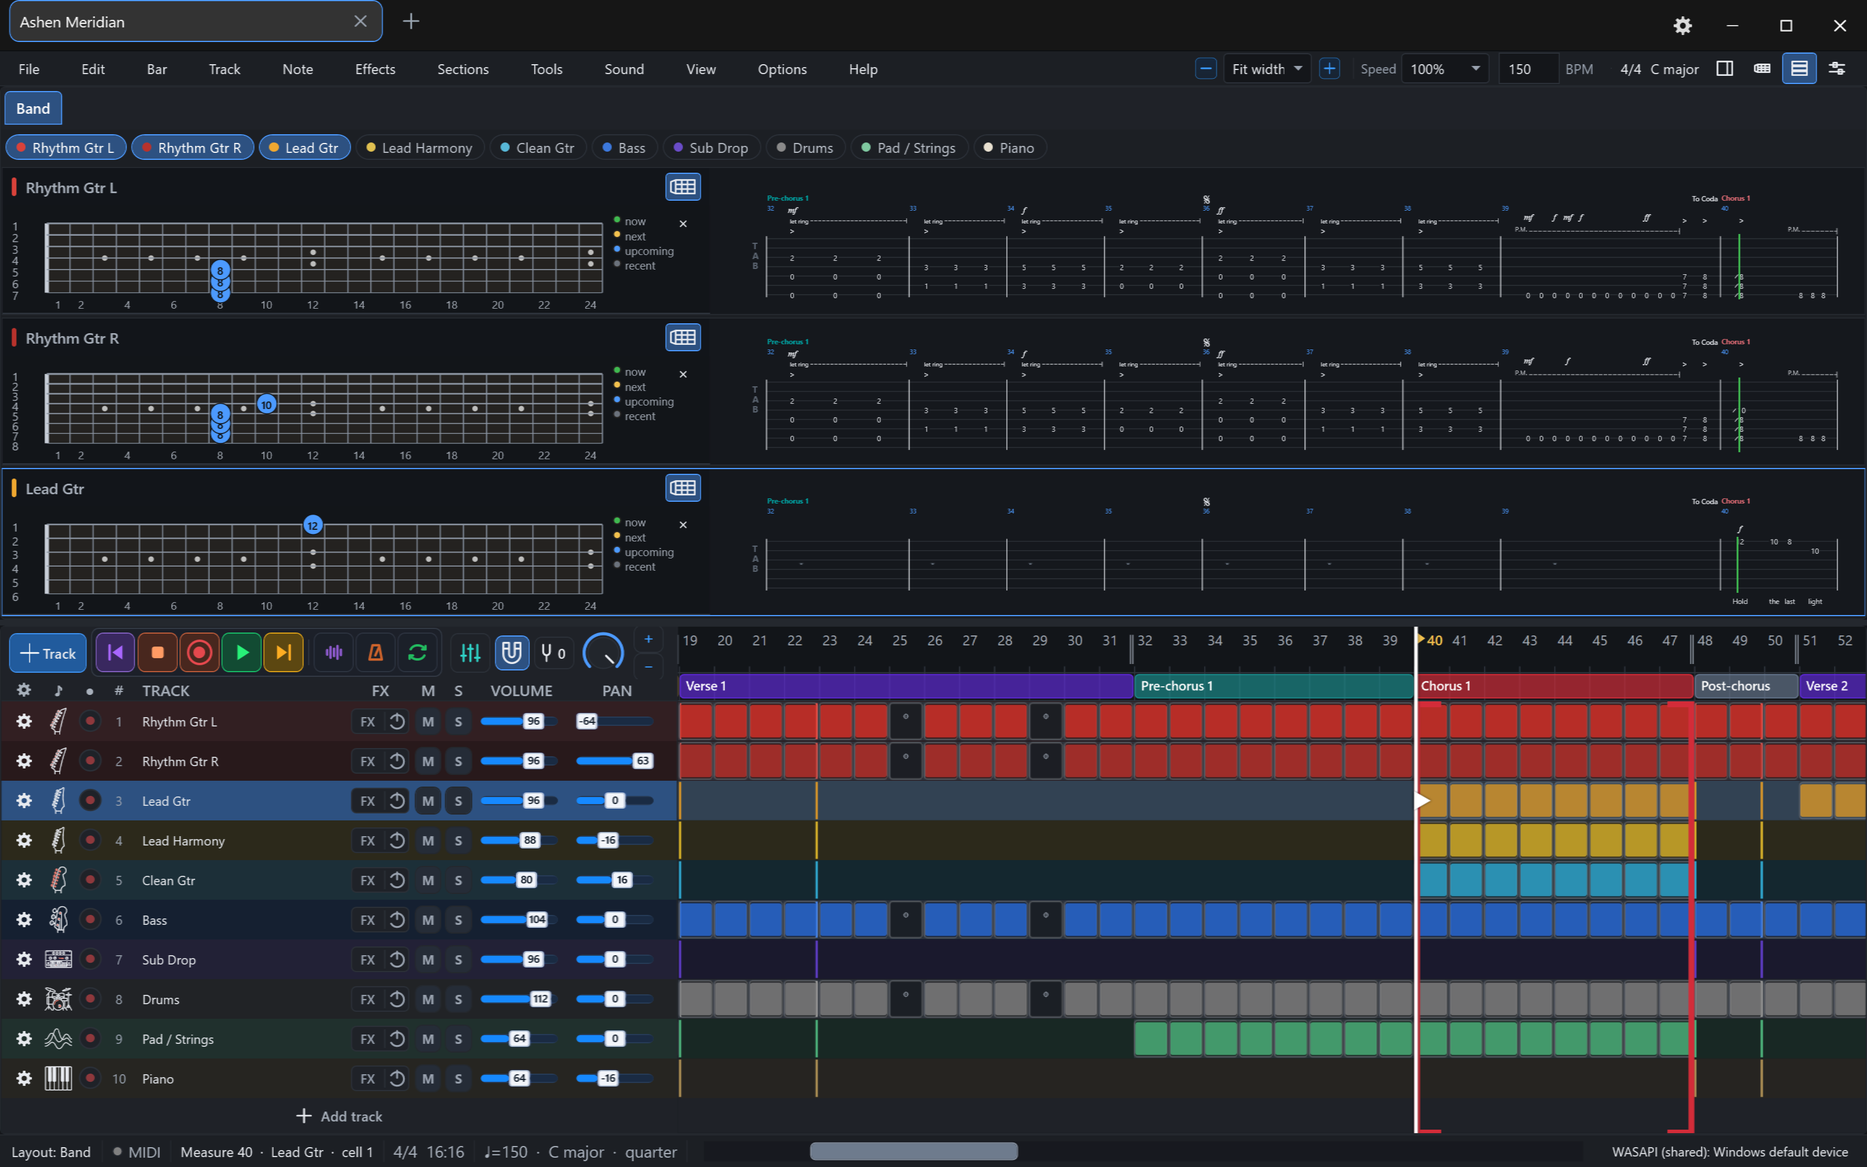
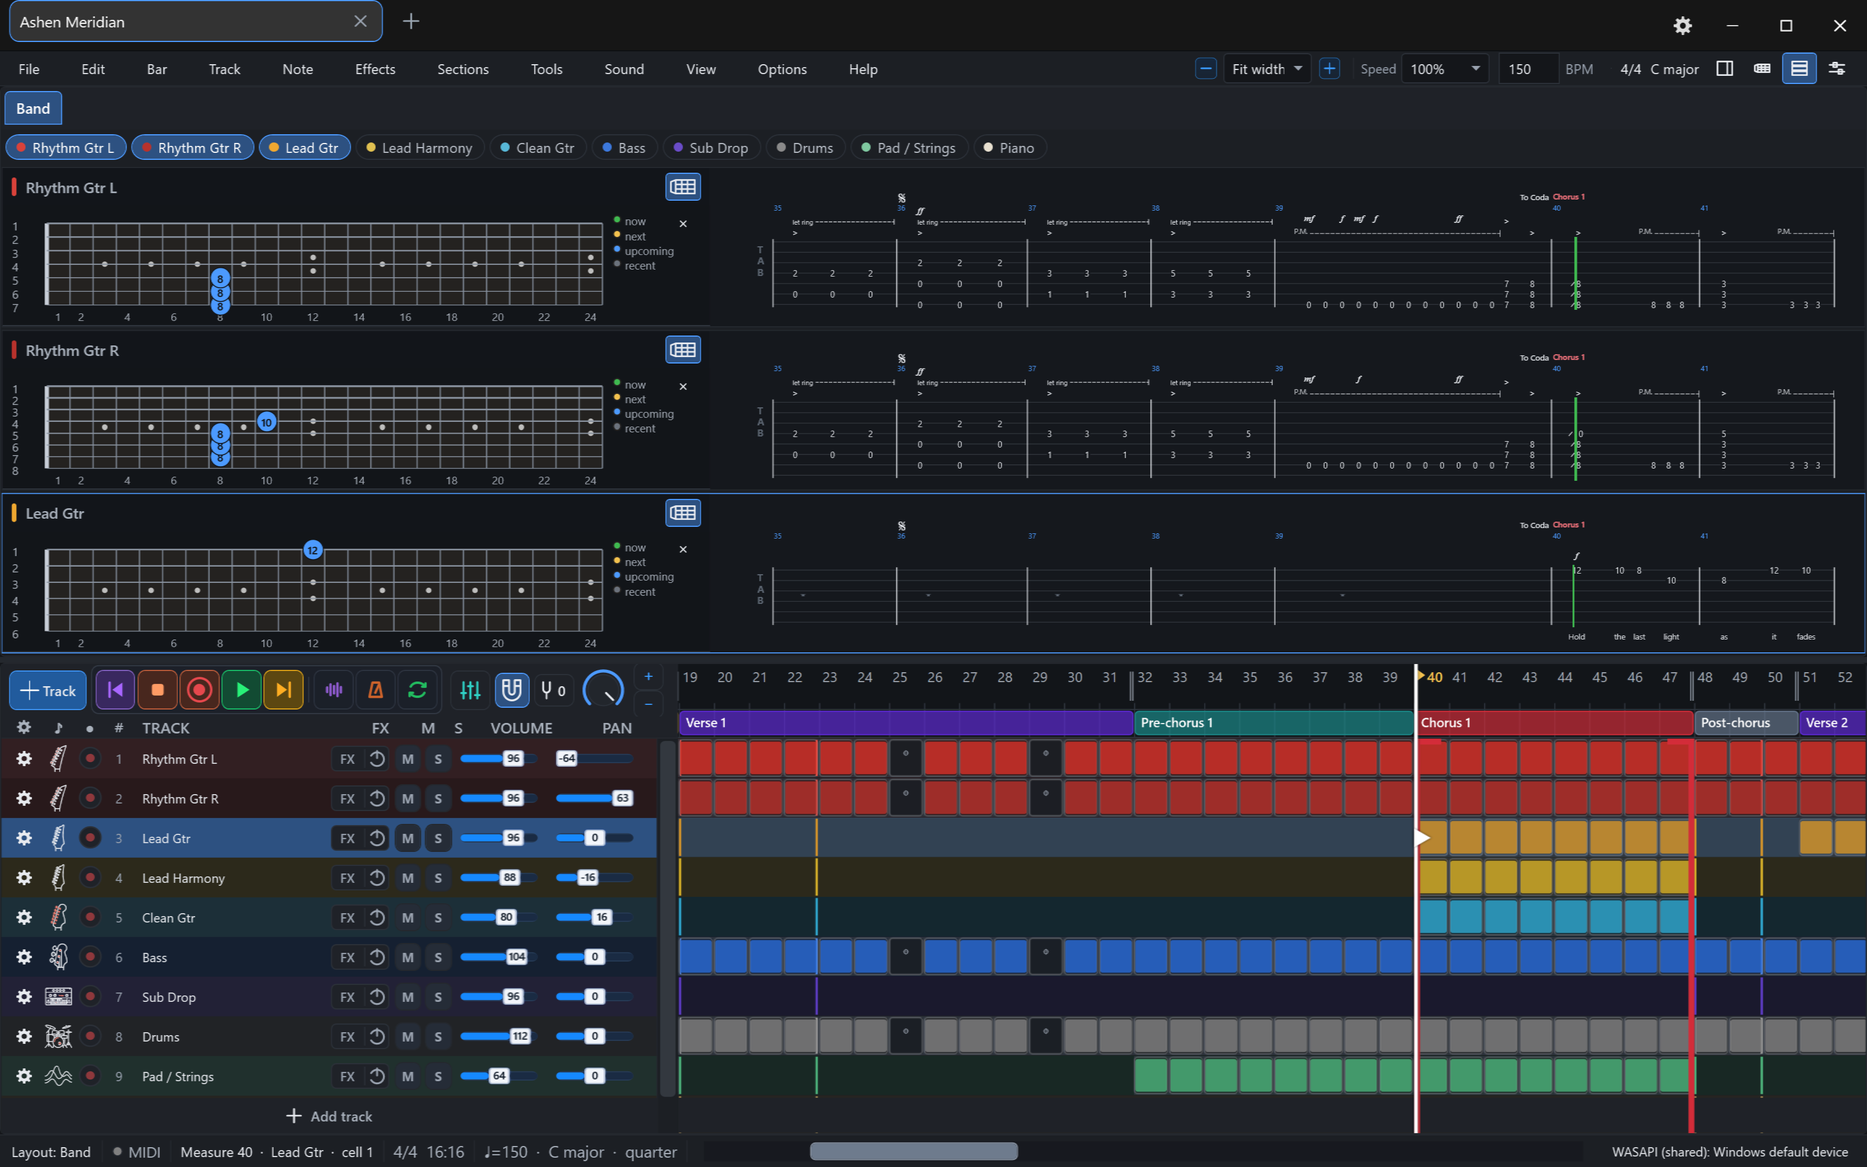
TabForge 0.6.2

diff --git a/tests/full-suite/Views/SelfTestBandLanes.cs b/tests/full-suite/Views/SelfTestBandLanes.cs
@@ -1,4 +1,4 @@
-using TabForge.Models;
+using TabForge.Models;
 using TabForge.Services;
 using TabForge.Views.Band;
 
@@ -138,5 +138,110 @@ public static partial class SelfTest
         var catalog = SettingsCatalog.Build(host.Settings).Select(d => d.Key).ToHashSet();
         Check("band vertical: Preferences has the layout row", catalog.Contains("band.lanelayout"));
         Check("band vertical: the menu has the layout items", TabForge.Views.BandMenus.Build(new TabForge.Views.BandMenuState("Tab", "Full neck", 3, true), _ => "").Any(m => m.Header == "Lane layout" && m.Children?.Count == 2));
+    }
+
+    private static void TestBandRowsSamePage()
+    {
+        var project = BandUnevenSong(120);
+        var host = new FakeBandHost(project);
+        host.Settings.Timeline.Band = new BandSettings { WidthPerRow = true };
+        using var band = new BandViewController(host);
+        BandStage(band, 1000, 900);
+        band.Tick();
+        BandStage(band, 1000, 900);
+        // Rows with different instrument widths leave their lanes different widths.
+        band.State.SetWidth(project.Tracks[2], 380);
+        band.State.SetWidth(project.Tracks[0], 120);
+        band.Tick();
+        BandStage(band, 1000, 900);
+        var lanes = band.View.Rows.Select(r => r.Lane).ToList();
+        Check("band page: the lanes really differ in width", lanes.Select(l => Math.Round(l.ActualWidth)).Distinct().Count() > 1);
+        var bad = "";
+        for (var bar = 0; bar < 120 && bad == ""; bar++)
+        {
+            if (lanes.Select(l => l.SystemOf(bar)).Distinct().Count() > 1) bad = "bar " + bar + " is in systems " + string.Join("/", lanes.Select(l => l.SystemOf(bar)));
+            else if (lanes.Select(l => Math.Round(l.Editor.Zoom, 4)).Distinct().Count() > 1) bad = "zoom " + string.Join("/", lanes.Select(l => l.Editor.Zoom));
+        }
+        Check("band page: every row has the same bars on a page and the same tab scale", bad == "", bad);
+    }
+
+    private static void TestBandRowsSamePageHorizontal()
+    {
+        var project = BandSong(120);
+        foreach (var t in project.Tracks.Take(2)) t.StringTunings = new List<int> { 64, 59, 55, 50, 45, 40, 35 };
+        var host = new FakeBandHost(project);
+        host.Settings.Timeline.Band = new BandSettings { WidthPerRow = true, LaneLayout = BandChoices.Horizontal };
+        host.Settings.Follow.Mode = FollowModes.Jump;
+        using var band = new BandViewController(host);
+        BandStage(band, 2000, 1100);
+        band.Tick();
+        BandStage(band, 2000, 1100);
+        band.State.SetWidth(project.Tracks[0], 300);
+        band.State.SetWidth(project.Tracks[1], 520);
+        band.State.SetWidth(project.Tracks[2], 400);
+        band.Tick();
+        BandStage(band, 2000, 1100);
+        var lanes = band.View.Rows.Select(r => r.Lane).ToList();
+        Check("band page horizontal: the lanes differ in width", lanes.Select(l => Math.Round(l.ActualWidth)).Distinct().Count() > 1);
+        var bad = "";
+        foreach (var bar in new[] { 5, 40, 89, 90, 91, 92, 93 })
+        {
+            band.Apply(bar, 0.0, bar * 2000.0, true, false);
+            var z = lanes.Select(l => l.Editor.Zoom).ToList();
+            var x = lanes.Select(l => l.PlayheadAtLane.X).ToList();
+            var o = lanes.Select(l => l.Offset).ToList();
+            var bx = lanes.Select(l => l.Editor.Layout.GetLayout(l.Editor.Track).Measure(bar).X * l.Editor.Zoom).ToList();
+            if (bx.Max() - bx.Min() > 0.5) { bad = $"bar {bar}: bar x {string.Join("/", bx.Select(v => v.ToString("0.0")))}"; break; }
+            if (z.Max() - z.Min() > 1e-6) bad = $"bar {bar}: zoom {string.Join("/", z)}";
+            else if (o.Max() - o.Min() > 1e-6) bad = $"bar {bar}: offset {string.Join("/", o)}";
+            else if (x.Max() - x.Min() > 2) bad = $"bar {bar}: playhead x {string.Join("/", x.Select(v => v.ToString("0")))}";
+            if (bad != "") break;
+        }
+        Check("band page horizontal: same scale, same first bar, playheads within 2 px", bad == "", bad);
+    }
+
+    private static void TestBandRowsSamePageDemo()
+    {
+        var project = TabForge.Presets.FullDemoSongFactory.Create();
+        var host = new FakeBandHost(project);
+        host.Settings.Timeline.Band = new BandSettings { WidthPerRow = true, LaneLayout = BandChoices.Horizontal };
+        host.Settings.Follow.Mode = FollowModes.Jump;
+        using var band = new BandViewController(host);
+        BandStage(band, 2000, 1100);
+        band.Tick();
+        ClickPill(band, 3);
+        band.ChangeRowsPerScreen(1);
+        band.Tick();
+        BandStage(band, 2000, 1100);
+        band.State.SetWidth(project.Tracks[0], 300);
+        band.State.SetWidth(project.Tracks[1], 520);
+        band.State.SetWidth(project.Tracks[2], 400);
+        band.Tick();
+        BandStage(band, 2000, 1100);
+        var lanes = band.View.Rows.Select(r => r.Lane).ToList();
+        var bad = "";
+        band.View.Rows[2].RequestHeight(140);
+        BandStage(band, 2000, 1100);
+        band.View.Rows[2].RequestReset();
+        BandStage(band, 2000, 1100);
+        BandStage(band, 1700, 1000);
+        BandStage(band, 2000, 1100);
+        for (var step = 0; step < 100 && bad == ""; step++)
+        {
+            var bar = 84 + step / 10;
+            band.Apply(bar, step % 10 / 10.0, bar * 2000.0, true, false);
+            BandStage(band, 2000, 1100);
+            new System.Windows.Media.Imaging.RenderTargetBitmap(2000, 1100, 96, 96, System.Windows.Media.PixelFormats.Pbgra32).Render(band.View);
+            band.Tick();
+            BandStage(band, 2000, 1100);
+            band.Apply(bar, step % 10 / 10.0, bar * 2000.0, true, false);
+            var z = lanes.Select(l => l.Editor.Zoom).ToList();
+            var o = lanes.Select(l => l.Offset).ToList();
+            var bx = lanes.Select(l => l.Editor.Layout.GetLayout(l.Editor.Track).Measure(bar).X * l.Editor.Zoom).ToList();
+            if (z.Max() - z.Min() > 1e-6) bad = $"bar {bar}: zoom {string.Join("/", z.Select(v => v.ToString("0.000")))}";
+            else if (o.Max() - o.Min() > 1e-6) bad = $"bar {bar}: offset {string.Join("/", o)}";
+            else if (bx.Max() - bx.Min() > 0.5) bad = $"bar {bar}: bar x {string.Join("/", bx.Select(v => v.ToString("0.0")))}";
+        }
+        Check("band demo: four rows share the scale, the first bar and the bar positions", lanes.Count == 4 && bad == "", lanes.Count + " rows " + bad);
     }
 }

diff --git a/src/TabForge/Views/Band/BandLane.cs b/src/TabForge/Views/Band/BandLane.cs
@@ -1,4 +1,4 @@
-using System.Windows;
+using System.Windows;
 using System.Windows.Controls;
 using System.Windows.Input;
 using System.Windows.Media;
@@ -105,8 +105,16 @@ internal sealed class BandLane : Border
     /// <summary>The zoom this lane would use alone (the score's text scale, shrunk to fit its height).</summary>
     internal double WantedZoom { get; private set; } = 1;
 
-    /// <summary>Raised when the zoom this lane wants changed: the controller then settles the shared cap.</summary>
+    /// <summary>Raised when the zoom this lane wants or its width changed: the controller then settles the shared cap and page width.</summary>
     internal event Action? WantedZoomChanged;
+
+    private double _shareWidth, _lastWidth;
+    /// <summary>Vertical layout: the page width (the narrowest lane's) every lane wraps its systems at, so each system starts on the same bar in all lanes.</summary>
+    internal double SharedWidth
+    {
+        get => _shareWidth;
+        set { if (Math.Abs(value - _shareWidth) < 0.5) return; _shareWidth = value; Refit(); }
+    }
 
     /// <summary>Hands the lane the bar widths all lanes share (the widest of each bar), so the bars line up between lanes.</summary>
     internal void ShareBarWidths(double[]? widths)
@@ -220,6 +228,7 @@ internal sealed class BandLane : Border
     internal void Refit()
     {
         if (ActualHeight < 20) return;
+        _editor.Measure(new Size(double.PositiveInfinity, double.PositiveInfinity));   // the system height follows marks found while laying out (tempo, text): read it settled
         var unit = _editor.Zoom > 0 ? _editor.SystemHeightNow / _editor.Zoom : 0;
         if (unit <= 0) return;
         // Only a tab-only strip may overflow (its empty top padding is cut); a strip with notation scales to fit whole.
@@ -229,7 +238,7 @@ internal sealed class BandLane : Border
         WantedZoom = wanted;
         var zoom = Math.Min(wanted, _zoomCap);
         if (Math.Abs(zoom - _editor.Zoom) > 0.001) _editor.Zoom = zoom;
-        if (_vertical) _editor.PageWidthOverride = Math.Max(300, ActualWidth / zoom);
+        if (_vertical) _editor.PageWidthOverride = Math.Max(300, (_shareWidth > 1 ? _shareWidth : ActualWidth) / zoom);
         _editor.Measure(new Size(double.PositiveInfinity, double.PositiveInfinity));
         // Centred when it fits; a taller system keeps its tab staff (at the bottom) and loses top padding.
         var spare = ActualHeight - _editor.SystemHeightNow * VisibleSystems;
@@ -239,7 +248,9 @@ internal sealed class BandLane : Border
         _shownBar = -2;   // the strip and the line go back to the last asked position now
         if (_wantBar >= -1) Place(_wantBar, _wantFraction, _pos);
         PlaceGlow();
-        if (wantedChanged) WantedZoomChanged?.Invoke();
+        var widthChanged = _vertical && Math.Abs(ActualWidth - _lastWidth) > 0.5;
+        _lastWidth = ActualWidth;
+        if (wantedChanged || widthChanged) WantedZoomChanged?.Invoke();
     }
 
     /// <summary>How many whole systems the lane shows at once (always 1 for a horizontal strip).</summary>

diff --git a/src/TabForge/Views/Band/BandViewController.cs b/src/TabForge/Views/Band/BandViewController.cs
@@ -421,24 +421,38 @@ internal sealed class BandViewController : IDisposable
         try
         {
             var rows = View.Rows;
-            double[]? widest = null;
-            var cap = 4.0;
-            for (var i = 0; i < rows.Count; i++)
+            // A lane that refits at the new cap or width may want another zoom (its system height is not exactly linear): settle in a few passes.
+            for (var pass = 0; pass < 4; pass++)
             {
-                var lane = rows[i].Lane;
-                var natural = lane.NaturalBarWidths();
-                if (natural is null) continue;
-                cap = Math.Min(cap, lane.WantedZoom);
-                if (widest is null) widest = (double[])natural.Clone();
-                else
+                double[]? widest = null;
+                var cap = 4.0;
+                var narrow = double.MaxValue;
+                for (var i = 0; i < rows.Count; i++)
                 {
-                    if (natural.Length > widest.Length) Array.Resize(ref widest, natural.Length);
-                    for (var b = 0; b < natural.Length; b++) widest[b] = Math.Max(widest[b], natural[b]);
+                    var lane = rows[i].Lane;
+                    var natural = lane.NaturalBarWidths();
+                    if (natural is null) continue;
+                    cap = Math.Min(cap, lane.WantedZoom);
+                    if (lane.ActualWidth > 1) narrow = Math.Min(narrow, lane.ActualWidth);
+                    if (widest is null) widest = (double[])natural.Clone();
+                    else
+                    {
+                        if (natural.Length > widest.Length) Array.Resize(ref widest, natural.Length);
+                        for (var b = 0; b < natural.Length; b++) widest[b] = Math.Max(widest[b], natural[b]);
+                    }
                 }
+                if (widest is not null && (_floor is null || !_floor.AsSpan().SequenceEqual(widest))) _floor = widest;
+                else if (widest is null) _floor = null;
+                var changed = false;
+                for (var i = 0; i < rows.Count; i++)
+                {
+                    var lane = rows[i].Lane;
+                    var before = (lane.WantedZoom, lane.Editor.Zoom);
+                    lane.ShareBarWidths(_floor); lane.ZoomCap = cap; lane.SharedWidth = narrow < double.MaxValue ? narrow : 0;
+                    if (before != (lane.WantedZoom, lane.Editor.Zoom)) changed = true;
+                }
+                if (!changed) break;
             }
-            if (widest is not null && (_floor is null || !_floor.AsSpan().SequenceEqual(widest))) _floor = widest;
-            else if (widest is null) _floor = null;
-            for (var i = 0; i < rows.Count; i++) { rows[i].Lane.ShareBarWidths(_floor); rows[i].Lane.ZoomCap = cap; }
             _lastBar = -2;
         }
         finally { _aligning = false; }

diff --git a/tests/full-suite/SelfTestFullSuite.cs b/tests/full-suite/SelfTestFullSuite.cs
@@ -293,6 +293,9 @@ public static partial class SelfTest
         Guard(TestBandSettings);
         Guard(TestBandLanesInSync);
         Guard(TestBandVerticalLanes);
+        Guard(TestBandRowsSamePage);
+        Guard(TestBandRowsSamePageHorizontal);
+        Guard(TestBandRowsSamePageDemo);
         Guard(TestBandLaneZoom);
         Guard(TestBandViewReset);
         Guard(TestBandWideLaneSync);
@@ -790,7 +793,7 @@ public static partial class SelfTest
         ["TestFretboardGeometry"] = "ui",
         ["TestFretboardPaneSize"] = "ui", ["TestScoreScaleMatchesFretboard"] = "ui", ["TestDockDefaultsAndFretboardPosition"] = "ui",
         ["TestKeyboardPaneSize"] = "ui",
-        ["TestBandViewRows"] = "ui", ["TestBandLaneCache"] = "ui", ["TestBandLaneClick"] = "ui", ["TestBandViewLifecycle"] = "ui", ["TestBandLayoutPreset"] = "ui", ["TestBandNeverDocked"] = "ui",
+        ["TestBandViewRows"] = "ui", ["TestBandRowsSamePage"] = "ui", ["TestBandRowsSamePageHorizontal"] = "ui", ["TestBandRowsSamePageDemo"] = "ui", ["TestBandLaneCache"] = "ui", ["TestBandLaneClick"] = "ui", ["TestBandViewLifecycle"] = "ui", ["TestBandLayoutPreset"] = "ui", ["TestBandNeverDocked"] = "ui",
         ["TestBandPillsAndRows"] = "ui", ["TestBandRowSizing"] = "ui", ["TestBandReorder"] = "ui", ["TestBandNoteGlow"] = "ui", ["TestBandStoppedInstruments"] = "ui",
         ["TestBandLayoutSaved"] = "ui", ["TestBandLayoutSafety"] = "ui", ["TestBandSettings"] = "ui", ["TestBandLanesInSync"] = "ui", ["TestBandInstrumentRows"] = "ui", ["TestBandVerticalLanes"] = "ui", ["TestBandLaneZoom"] = "ui", ["TestBandViewReset"] = "ui", ["TestBandWideLaneSync"] = "ui", ["TestBandMenu"] = "ui", ["TestBandFollow"] = "ui", ["TestBandLaneContent"] = "ui", ["TestBandReorderAutoScroll"] = "ui", ["TestBandEmptyState"] = "ui",
         ["TestBandPillContrast"] = "ui", ["TestFramedIconContrast"] = "ui", ["TestFretMarkerLabelContrast"] = "ui", ["TestFretStrumArrow"] = "ui", ["TestEffectEditorOkContrast"] = "ui", ["TestTrackNameEllipsis"] = "ui", ["TestHoverSurfaceContrast"] = "ui",

diff --git a/src/TabForge/Diagnostics/WindowProbes.PerfProbe.cs b/src/TabForge/Diagnostics/WindowProbes.PerfProbe.cs
@@ -19,6 +19,7 @@ internal sealed partial class WindowProbes : MainWindow.ProbeAccess
             try
             {
                 await Task.Delay(2000);
+                report.AppendLine(MemoryLine("opened"));
                 foreach (var (horizontal, continuous) in new[] { (false, false), (false, true), (true, false), (true, true) })
                 {
                     SetHorizontalScoreView(horizontal);
@@ -41,10 +42,22 @@ internal sealed partial class WindowProbes : MainWindow.ProbeAccess
                 }
             }
             catch (Exception ex) { report.AppendLine($"probe failed: {ex.GetBaseException().Message}"); }
+            report.AppendLine(MemoryLine("after playback"));
+            GC.Collect(2, GCCollectionMode.Forced, true, true);
+            report.AppendLine(MemoryLine("after full GC"));
             DiagnosticFileService.WriteText(path, report.ToString());
             _confirmOnClose = false;
             Application.Current.Shutdown(0);
         }));
+    }
+
+    /// <summary>One line of managed versus process memory, so a change to a cache shows in the report.</summary>
+    private static string MemoryLine(string when)
+    {
+        var info = GC.GetGCMemoryInfo();
+        var p = Process.GetCurrentProcess();
+        return $"memory {when}: managed {GC.GetTotalMemory(false) / 1048576.0:0} MB, heap committed {info.TotalCommittedBytes / 1048576.0:0} MB, " +
+               $"working set {p.WorkingSet64 / 1048576.0:0} MB, private {p.PrivateMemorySize64 / 1048576.0:0} MB";
     }
 
     /// <summary>`--probe-countin <report>`: turn count-in on through the real button handler, press Play the

diff --git a/src/TabForge/Views/TrackRowHover.cs b/src/TabForge/Views/TrackRowHover.cs
@@ -1,0 +1,27 @@
+using System.Windows;
+using System.Windows.Controls;
+
+namespace TabForge.Views;
+
+/// <summary>
+/// Owns the hover shade of one track-list row. Owns: wrapping the row content over a shade layer and
+/// toggling it on pointer enter/leave. Does not own: the row's tint, stripe or selection (the timeline and row builder do).
+/// </summary>
+internal static class TrackRowHover
+{
+    /// <summary>Wraps the row content over the list's HoverBrush at half strength, so the tint and colour stripe show through.
+    /// The selected track gets no shade, so its selection highlight stays the stronger one.</summary>
+    internal static void Attach(TrackRowBorder row, int index, TrackTimeline timeline)
+    {
+        var shade = new Border { IsHitTestVisible = false, Opacity = 0 };
+        shade.SetResourceReference(Border.BackgroundProperty, "HoverBrush");   // follows a theme switch
+        var content = row.Child;
+        row.Child = null;
+        var host = new Grid();
+        host.Children.Add(shade);
+        host.Children.Add(content);
+        row.Child = host;
+        row.MouseEnter += (_, _) => shade.Opacity = timeline.SelectedTrack == index ? 0 : 0.5;
+        row.MouseLeave += (_, _) => shade.Opacity = 0;
+    }
+}

diff --git a/src/TabForge/Views/ArrangementPanel.TrackRows.cs b/src/TabForge/Views/ArrangementPanel.TrackRows.cs
@@ -407,7 +407,7 @@ public sealed partial class ArrangementPanel
                 TrackOptionsRequested?.Invoke(this, index);
                 e.Handled = true;
             };
-            _trackRows.Add(row);
+            _trackRows.Add(row); TrackRowHover.Attach(row, index, _timeline);
             _controls.Children.Add(row);
         }
         if (_addLane.Build() is { } addLane) _controls.Children.Add(addLane);   // rows end flush against it

diff --git a/docs/feature-map/tests.md b/docs/feature-map/tests.md
@@ -27,7 +27,7 @@ Generated by `TabForge.exe --feature-map` from the test registry. Do not edit by
 | smoke | 20 | `--selftest <log> --areas smoke` |
 | synthetic | 2 | `--selftest <log> --areas synthetic` |
 | tutorial | 6 | `--selftest <log> --areas tutorial` |
-| ui | 170 | `--selftest <log> --areas ui` |
+| ui | 173 | `--selftest <log> --areas ui` |
 | window-lifetime | 2 | `--selftest <log> --areas window-lifetime` |
 | workflow | 13 | `--selftest <log> --areas workflow` |
 
@@ -477,6 +477,9 @@ A group is a named set of tests with a minimum check count; `--require ci` makes
 | TestBandReorder |  | `tests/full-suite/Views/SelfTestBandRows.cs` |
 | TestBandReorderAutoScroll |  | `tests/full-suite/Views/SelfTestBandSettings.cs` |
 | TestBandRowSizing |  | `tests/full-suite/Views/SelfTestBandRows.cs` |
+| TestBandRowsSamePage |  | `tests/full-suite/Views/SelfTestBandLanes.cs` |
+| TestBandRowsSamePageDemo |  | `tests/full-suite/Views/SelfTestBandLanes.cs` |
+| TestBandRowsSamePageHorizontal |  | `tests/full-suite/Views/SelfTestBandLanes.cs` |
 | TestBandSettings |  | `tests/full-suite/Views/SelfTestBandSettings.cs` |
 | TestBandStoppedInstruments |  | `tests/full-suite/Views/SelfTestBandRows.cs` |
 | TestBandVerticalLanes |  | `tests/full-suite/Views/SelfTestBandLanes.cs` |

diff --git a/CHANGELOG.md b/CHANGELOG.md
@@ -2,6 +2,11 @@
 
 TabForge is actively developed; please report anything odd on the Issues page.
 
+## 0.6.2 — 2026-10-09
+
+- Hovering a track row in the track list shows a subtle hover shade; the selected track keeps its stronger highlight.
+- Band view: every row now shows the same bars, turns the page together and draws its tab at the same scale, even when the rows have different widths.
+
 ## 0.6.1 — 2026-10-09
 
 - With many tracks, the track list now takes at most about half the height, so the score always shows at least one full line of tab and notation; further tracks scroll.

diff --git a/README.md b/README.md
@@ -1,4 +1,4 @@
-# TabForge 0.6.1
+# TabForge 0.6.2
 
 **A keyboard-driven tablature and notation editor for Windows. Opens GP files (.gp3, .gp4, .gp5, .gpx, .gp) and saves .gp and its own .tforge projects.** Write, import and play back guitar, bass, drum and keyboard parts, with a live fretboard / keyboard, an arrangement timeline, audio and MIDI recording, a mixer, VST plug-ins and offline audio rendering.
 
